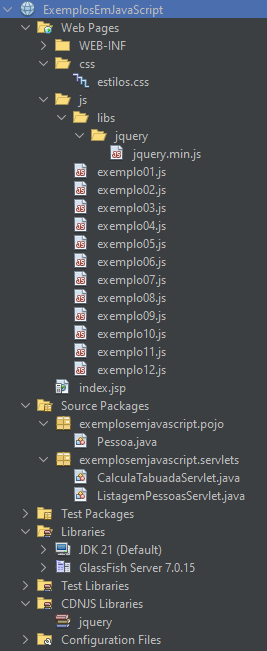
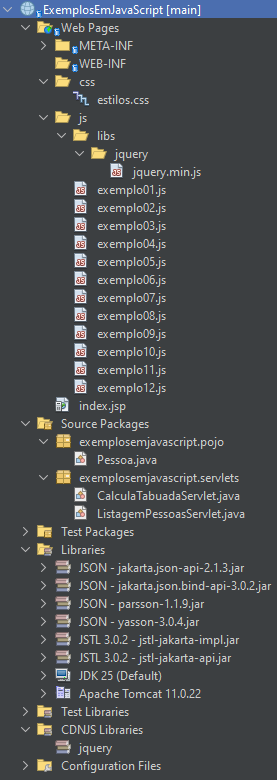
ajustes libs json

Changed region(s): [[0.0, 0.0, 1.0, 1.0]]

diff --git a/capitulo07JavaScript.tex b/capitulo07JavaScript.tex
@@ -58,6 +58,15 @@ Vamos lá. Crie um projeto Java Web com o nome de ``ExemplosEmJavaScript'' da fo
         \FloatBarrier
         \item Clique em \destaque{OK}. A biblioteca jQuery será baixada e inserida no projeto dentro da pasta \texttt{js/libs/jquery}.
     \end{itemize}
+    \item Adicione a JSTL ao projeto da mesma forma que fizemos no capítulo~\ref{cap:elTagLibs}: clique com o botão direito em \destaque{\textit{Libraries}}, escolha \destaque{\textit{Add Library...}}, importe a JSTL e adicione-a ao projeto;
+    \item Este projeto utiliza a API JSON-B para serializar objetos Java em JSON. Diferentemente de servidores de aplicações completos como o GlassFish, o Apache Tomcat não inclui essa API, então precisamos adicioná-la manualmente ao projeto. Para isso, baixe os quatro arquivos abaixo e guarde-os em uma pasta de fácil acesso:
+    \begin{itemize}
+        \item \url{https://repo1.maven.org/maven2/jakarta/json/bind/jakarta.json.bind-api/3.0.2/jakarta.json.bind-api-3.0.2.jar}
+        \item \url{https://repo1.maven.org/maven2/jakarta/json/jakarta.json-api/2.1.3/jakarta.json-api-2.1.3.jar}
+        \item \url{https://repo1.maven.org/maven2/org/eclipse/yasson/3.0.4/yasson-3.0.4.jar}
+        \item \url{https://repo1.maven.org/maven2/org/eclipse/parsson/parsson/1.1.9/parsson-1.1.9.jar}
+    \end{itemize}
+    Com os arquivos baixados, vamos criar uma biblioteca no projeto, da forma que fizemos para o driver do MariaDB. Clique com o botão direito em \destaque{\textit{Libraries}}, escolha \destaque{\textit{Add Library...}}, clique em \destaque{\textit{Create...}}, dê o nome de ``JSON'' (sem as aspas) e clique em \destaque{\textit{OK}}. No próximo diálogo, clique em \destaque{\textit{Add JAR/Folder...}}, navegue até a pasta onde você salvou os quatro arquivos, selecione-os todos e clique em \destaque{\textit{Add JAR/Folder}}. Por fim, clique em \destaque{\textit{OK}}, selecione a biblioteca ``JSON'' e clique em \destaque{\textit{Add Library}}.
 \end{itemize}
 
 Realizando todos os passos descritos anteriormente, você terá um projeto com a estrutura apresentada na Figura~\ref{fig:cap07EstruturaDoProjeto}. Agora vamos começar a preencher cada um dos arquivos e aprender o que está acontecendo em cada um deles.
@@ -66,7 +75,7 @@ Realizando todos os passos descritos anteriormente, você terá um projeto com a
 \begin{figure}[!htbp]
     \centering
     \caption{Estrutura do projeto}
-    \includegraphics[scale=0.7]{imagens/cap07EstruturaDoProjeto}
+    \includegraphics[scale=0.65]{imagens/cap07EstruturaDoProjeto}
     \\\textbf{Fonte:} Elaborada pelo autor
     \label{fig:cap07EstruturaDoProjeto}
 \end{figure}

diff --git a/DesenvolvimentoAplicacoesWebEmJava.tex b/DesenvolvimentoAplicacoesWebEmJava.tex
@@ -62,12 +62,12 @@
 %\input{capitulo01JavaParaWeb}
 %\input{capitulo02ProcessamentoDeFormularios}
 %\input{capitulo03ExpressionLanguageTagLibs}
-\input{capitulo04PadroesDeProjeto}
+%\input{capitulo04PadroesDeProjeto}
 %\input{capitulo05SistemaControleClientes}
 %\input{capitulo06PrimeiroProjeto}
 
 %\part{O Que Falta do Básico?}
-%\input{capitulo07JavaScript}
+\input{capitulo07JavaScript}
 %\input{capitulo08SistemaVendaProdutos}
 %\input{capitulo09SegundoProjeto}
 